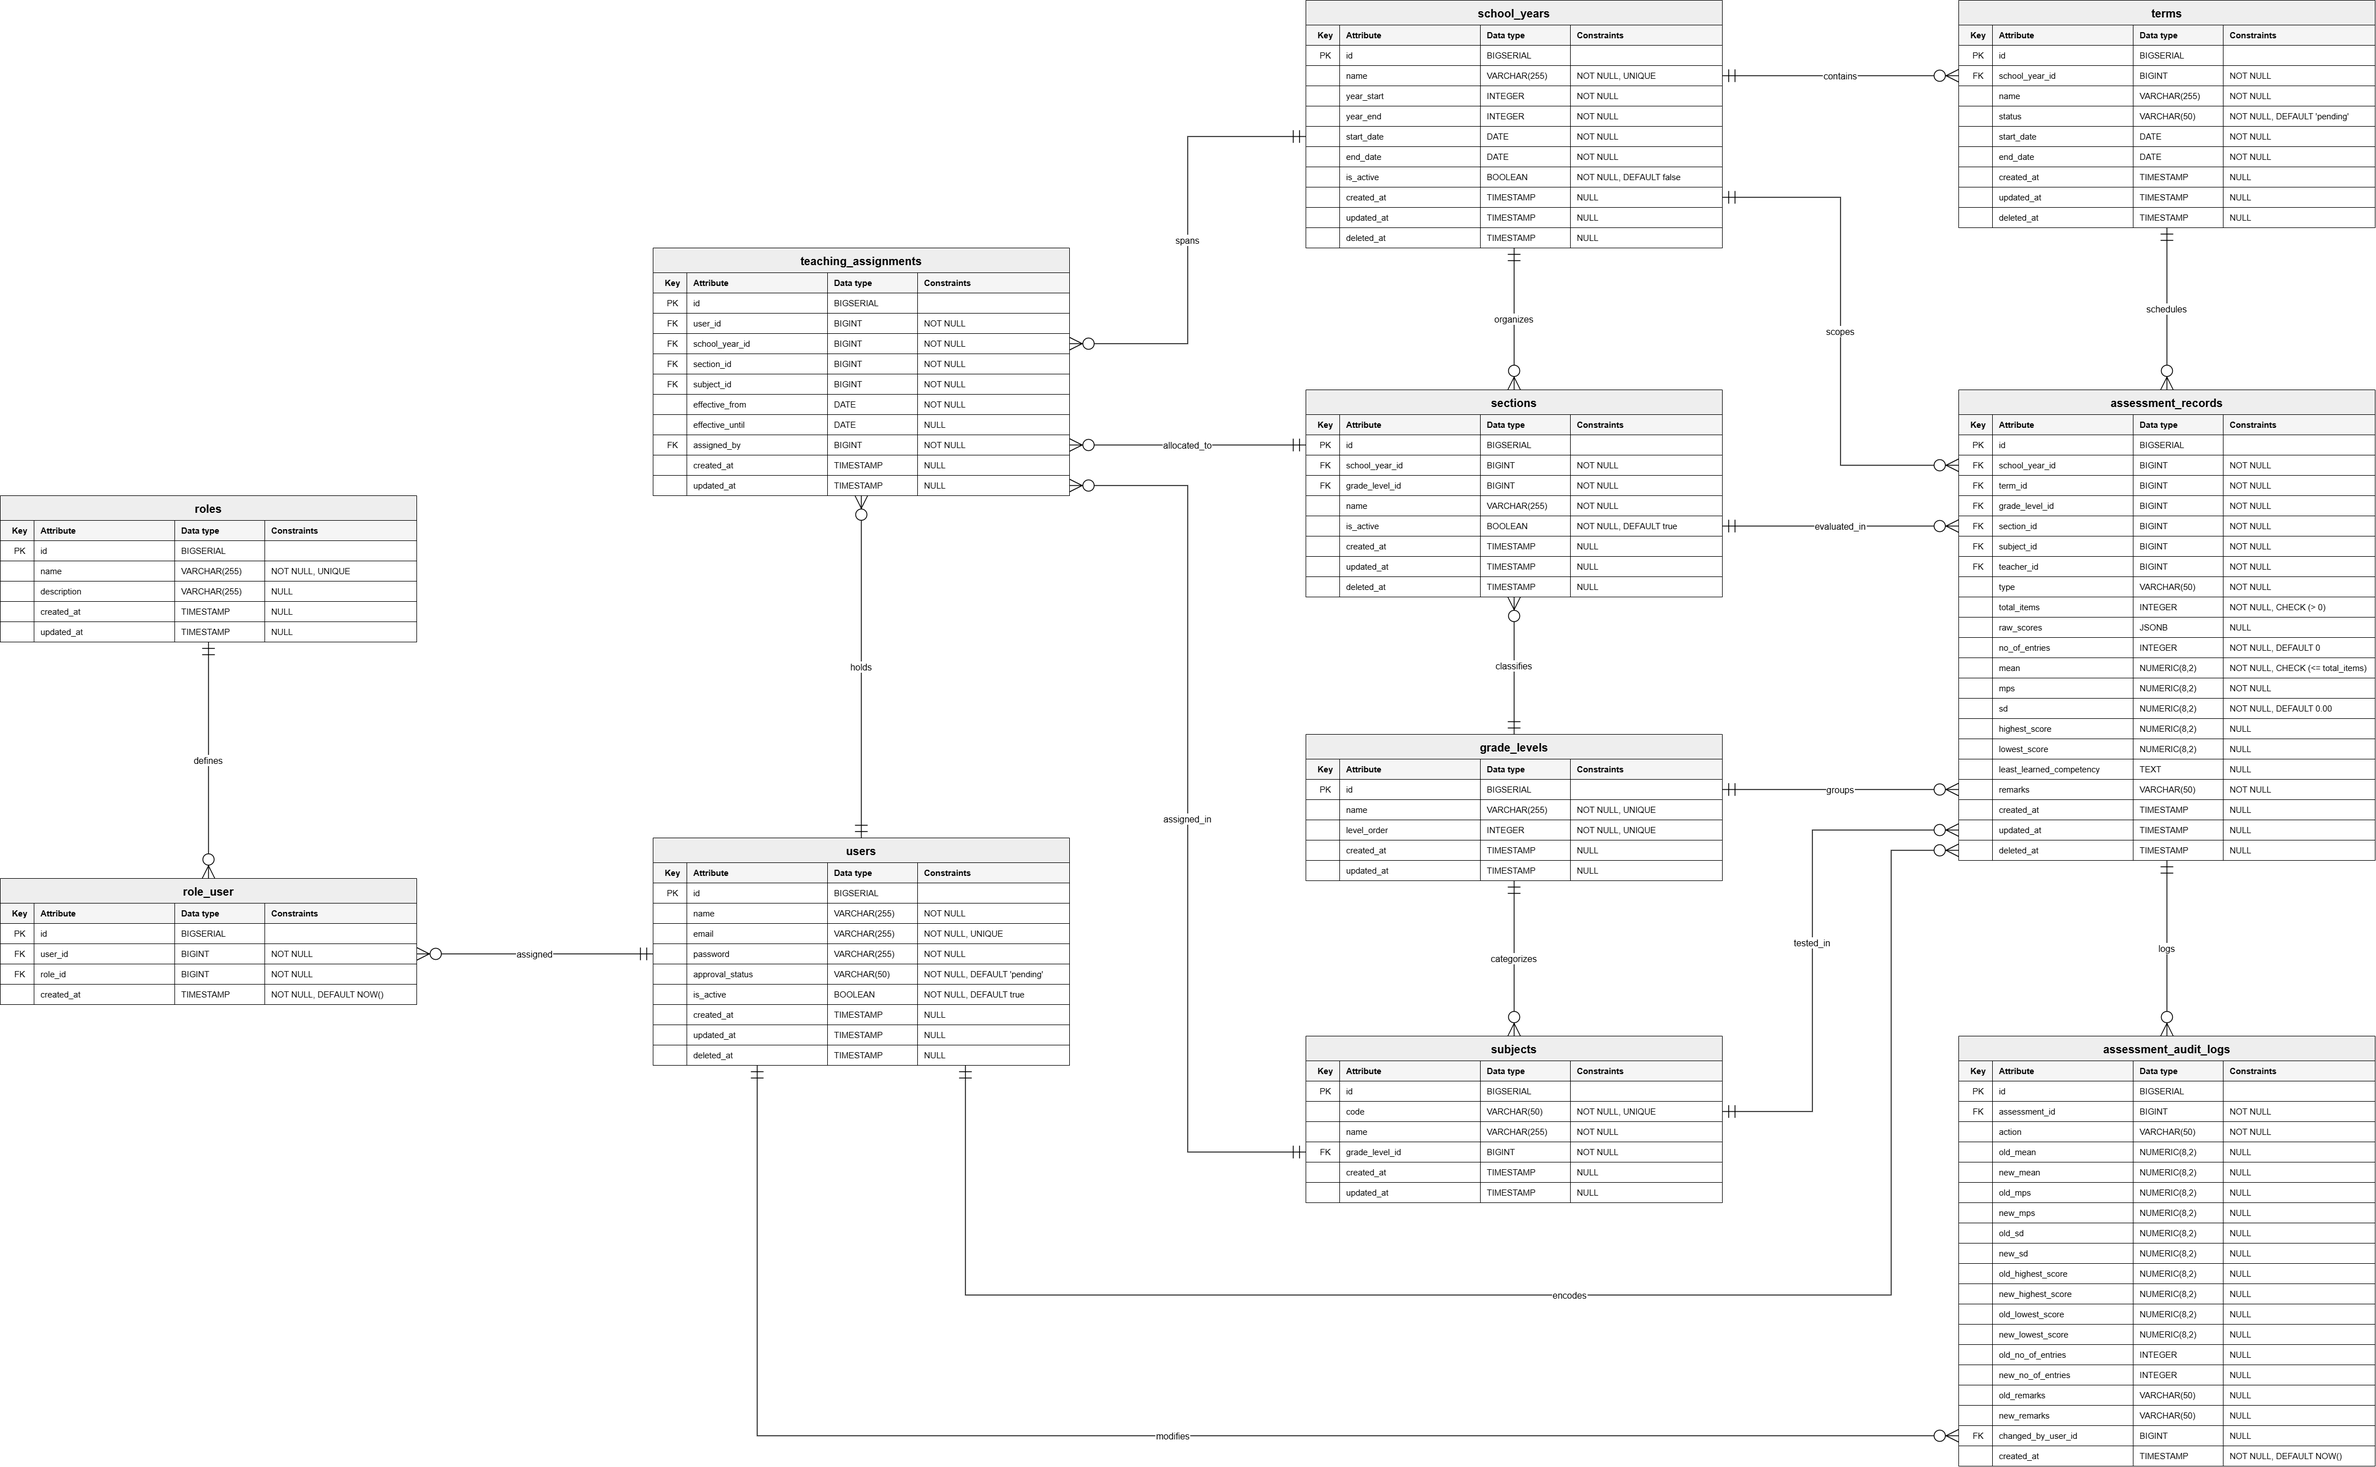
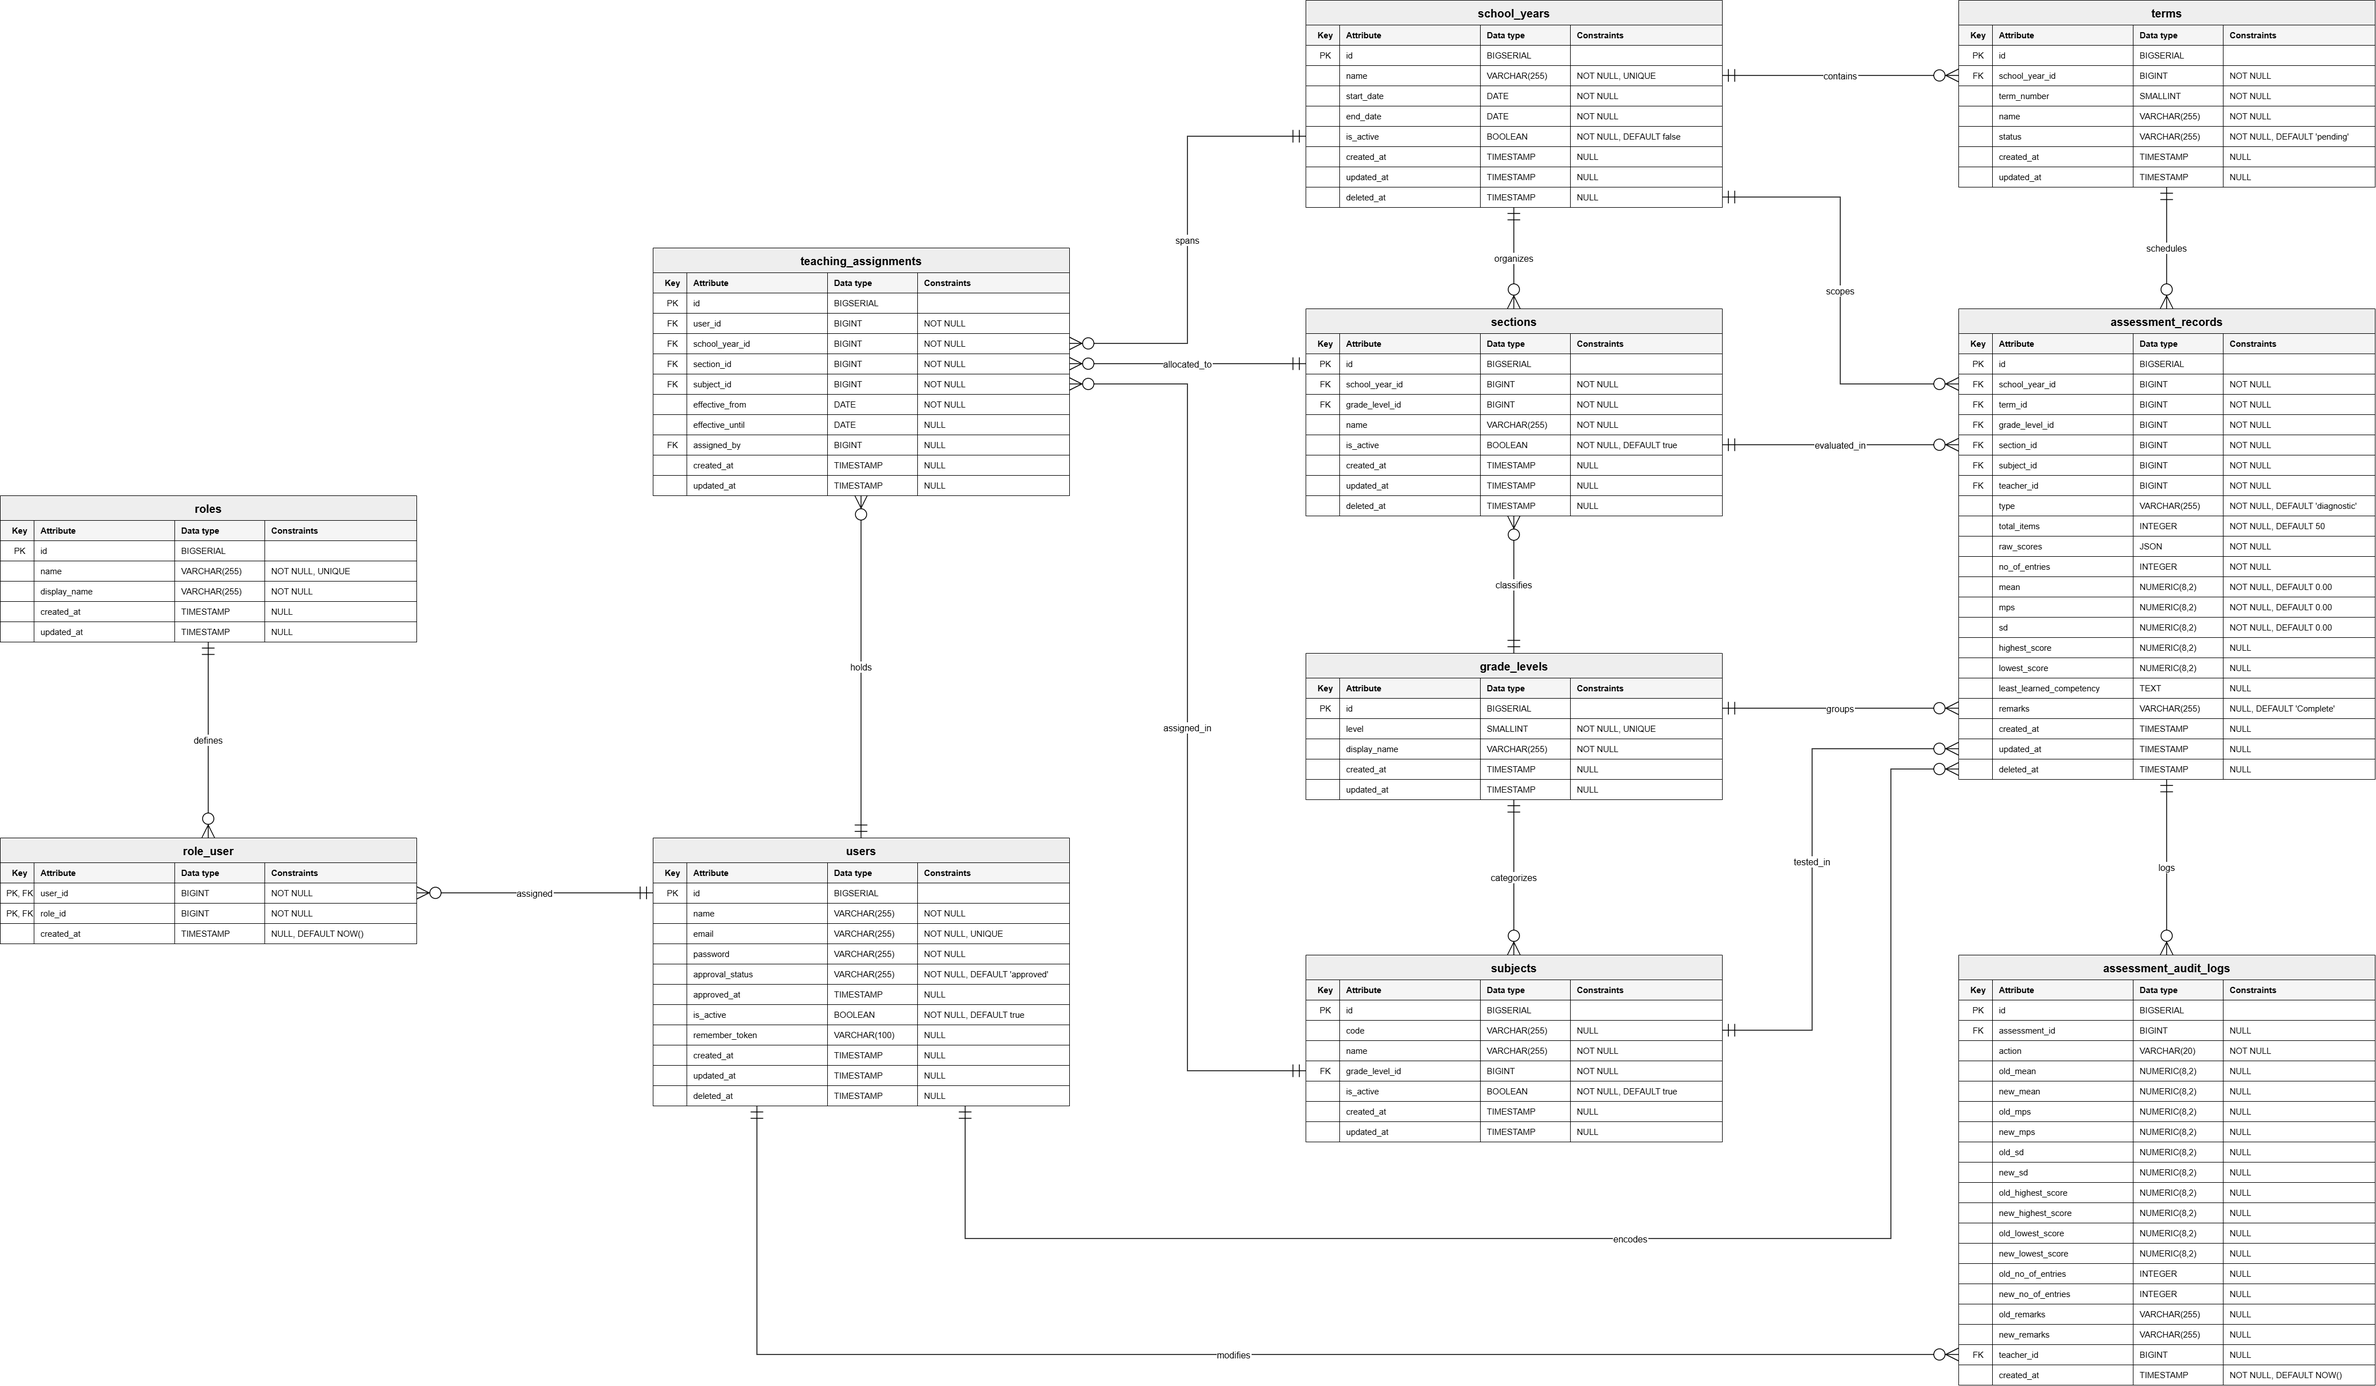
phase 68: update DOCUMENTATION.md challenges, table definitions, and ERD diagrams

diff --git a/DOCUMENTATION.md b/DOCUMENTATION.md
@@ -9,7 +9,7 @@ The DNIHS Assessment Consolidation and Analytics System is a web application bui
 ## Screens
 
 ### Front-End Overview
-The front-end is a Single Page Application (SPA) built with React 19, Vite, Tailwind CSS v4, Lucide React icons, and Motion for page transitions. On desktop screens, the layout uses a collapsible left sidebar, a top header bar showing the logged-in user, and full-width tables for reports and class management. On mobile screens, the sidebar turns into a slide-out menu drawer and tables scroll horizontally so forms and reports remain easy to use on phones.
+The front-end is developed as a Single Page Application (SPA) built with React 19 and bundled using Vite. It utilizes Tailwind CSS v4 for modern utility-first styling, Lucide React for UI iconography, and Motion for component animations and page transitions.
 
 ### Screen Descriptions
 
@@ -73,23 +73,23 @@ The project is structured as a Laravel REST API backend (PHP 8.3) connected to a
 m_capstone/
 ├── app/
 │   ├── Console/Commands/
-│   │   ├── DatabaseBackupCommand.php               # CLI command to back up the PostgreSQL database
-│   │   └── DatabaseRestoreCommand.php              # CLI command to restore and verify database backups
+│   │   ├── DatabaseBackupCommand.php       # Database backup command
+│   │   └── DatabaseRestoreCommand.php      # Database restore verification
 │   ├── Http/
 │   │   ├── Controllers/Api/
-│   │   │   ├── AcademicReferenceController.php     # Returns grade levels, subjects, and active school year
-│   │   │   ├── AssessmentController.php            # Handles score encoding, updates, and consolidated reports
-│   │   │   ├── AuthController.php                  # Handles login, registration, logout, and user session
-│   │   │   ├── SchoolYearController.php            # Creates and updates school years and their 3 terms
-│   │   │   ├── SectionController.php               # Creates, updates, archives, and deletes sections
-│   │   │   ├── TeacherAssignmentController.php     # Assigns and removes teacher subject loads
-│   │   │   ├── TeacherController.php               # Manages teacher account approval and deactivation
-│   │   │   └── TermController.php                  # Updates term status (pending, active, completed)
+│   │   │   ├── AcademicReferenceController.php  # Grade levels & subjects API
+│   │   │   ├── AssessmentController.php    # Score encoding & reports
+│   │   │   ├── AuthController.php          # Auth & user session API
+│   │   │   ├── SchoolYearController.php    # School year & term management
+│   │   │   ├── SectionController.php       # Class section management
+│   │   │   ├── TeacherAssignmentController.php  # Teacher load assignments
+│   │   │   ├── TeacherController.php       # Teacher accounts & approval
+│   │   │   └── TermController.php          # Term status management
 │   │   ├── Middleware/
-│   │   │   └── EnsureUserHasRole.php               # Checks if the logged-in user is system_admin or teacher
-│   │   ├── Requests/                               # FormRequest classes for server-side input validation
-│   │   └── Resources/                              # Formats model data into clean JSON responses
-│   ├── Models/                                     # Eloquent models for the database tables
+│   │   │   └── EnsureUserHasRole.php       # Role access authorization
+│   │   ├── Requests/                       # Form validation classes
+│   │   └── Resources/                      # JSON API resource transformers
+│   ├── Models/                             # Eloquent database models
 │   │   ├── AssessmentRecord.php
 │   │   ├── GradeLevel.php
 │   │   ├── Role.php
@@ -100,22 +100,26 @@ m_capstone/
 │   │   ├── Term.php
 │   │   └── User.php
 │   └── Services/
-│       └── StatsCalculatorService.php              # Computes Mean, SD, MPS, Mastery Level, and Pooled Variance
+│       └── StatsCalculatorService.php      # Mean, SD, MPS calculator
+├── bootstrap/
+│   └── app.php                             # Application bootloader
+├── config/                                 # App & database configuration
 ├── database/
-│   ├── migrations/                                 # Database tables, foreign keys, indexes, and triggers
-│   └── seeders/                                    # Initial roles, admin account, grades, and subjects
+│   └── migrations/                         # PostgreSQL table schemas
+├── public/                                 # Web server entry & assets
 ├── resources/
-│   ├── css/app.css                                 # Tailwind CSS v4 stylesheet
+│   ├── css/
+│   │   └── app.css                         # Tailwind CSS stylesheet
 │   └── js/
-│       ├── api.js                                  # Helper for API requests with Sanctum Bearer tokens
-│       ├── App.jsx                                 # Main React component handling login state and page tabs
-│       ├── main.jsx                                # React entry point
-│       ├── components/                             # Shared UI components (Sidebar, TopBar, ScoreSheet, Modal)
-│       └── pages/                                  # Page views for Login, Admin modules, and Teacher encoding
+│       ├── api.js                          # Axios API client helper
+│       ├── App.jsx                         # Root React SPA component
+│       ├── main.jsx                        # React entry point
+│       ├── components/                     # Reusable UI components
+│       └── pages/                          # React page views & modules
 └── routes/
-    ├── api.php                                     # All backend API endpoints
-    ├── console.php                                 # Scheduled daily backup command
-    └── web.php                                     # Serves the React app
+    ├── api.php                             # REST API endpoints
+    ├── console.php                         # Scheduled CLI commands
+    └── web.php                             # SPA route entry point
 ```
 
 ### Functions Made
@@ -133,18 +137,21 @@ m_capstone/
 
 | Table Name | Purpose |
 | :--- | :--- |
-| `users` | Stores admin and teacher accounts, hashed passwords, active status (`is_active`), approval status (`pending`, `approved`, `rejected`), and soft-delete timestamps. |
-| `roles` | Stores the user roles (`system_admin` and `teacher`). |
+| `users` | Stores administrator and teacher accounts, hashed passwords, active status (`is_active`), approval status (`pending`, `approved`, `rejected`), and timestamps. |
+| `roles` | Defines authorization roles (`system_admin` and `teacher`). |
 | `role_user` | Pivot table that links `users` to their assigned `roles`. |
-| `school_years` | Stores school years (such as `2025-2026`), start and end dates, and which school year is currently active. |
-| `terms` | Stores the 3 terms (`1st Term`, `2nd Term`, `3rd Term`) under each school year and whether encoding is `pending`, `active`, or `completed`. |
-| `grade_levels` | Reference table for `Grade 7`, `Grade 8`, `Grade 9`, and `Grade 10`. |
-| `sections` | Stores class sections (such as `Pilot A` and `Pilot B`) under a specific grade level and school year. |
-| `subjects` | Stores the DepEd subjects per grade level along with their subject codes. |
-| `teaching_assignments` | Links a teacher (`user_id`) to a specific section and subject for a school year, including start and end dates (`effective_from`, `effective_until`). |
-| `assessment_records` | Stores the encoded array of student `raw_scores` (JSONB), `total_items`, computed statistics (`no_of_entries`, `mean`, `mps`, `sd`, `highest_score`, `lowest_score`), `least_learned_competency`, and mastery `remarks`. |
-| `assessment_audit_logs` | Stores a history of old and new statistical values whenever an assessment record is updated or deleted. |
-| `personal_access_tokens` | Stores Laravel Sanctum authentication tokens for logged-in users. |
+| `school_years` | Stores academic school years (such as `2025-2026`), start and end dates, and active school year status (`is_active`). |
+| `terms` | Stores the 3 grading terms (`1st Term`, `2nd Term`, `3rd Term`) per school year and encoding status (`pending`, `active`, `completed`). |
+| `grade_levels` | Reference table for junior high school levels (`Grade 7`, `Grade 8`, `Grade 9`, and `Grade 10`). |
+| `sections` | Stores class sections under a specific grade level and school year. |
+| `subjects` | Stores the DepEd curriculum learning areas per grade level along with their subject codes. |
+| `teaching_assignments` | Links a teacher (`user_id`) to a specific section and subject for a school year, including tenure dates (`effective_from`, `effective_until`). |
+| `assessment_records` | Stores examination records with raw score arrays (`raw_scores` JSON), total items, computed statistics (`no_of_entries`, `mean`, `mps`, `sd`, highest/lowest score), least learned competencies, and DepEd mastery remarks. |
+| `assessment_audit_logs` | Audit trail logging previous and updated statistical values whenever an assessment record is modified or deleted. |
+| `personal_access_tokens` | Stores hashed Laravel Sanctum Bearer tokens for authenticated API sessions. |
+| `password_reset_tokens` | Stores temporary security tokens for user password reset requests. |
+| `sessions` | Stores web user session state, IP addresses, user agents, and last activity timestamps. |
+| `failed_jobs` | Logs details of any background queued jobs that failed execution. |
 
 ---
 
@@ -156,16 +163,18 @@ m_capstone/
 
 ## Challenges and Solutions
 
-### 1. Computing Consolidated Standard Deviation Across Multiple Sections
-- **Problem**: In the old spreadsheet setup, the overall standard deviation for a grade level was computed by simply averaging the standard deviations of each section. During development, we found that this gives an inaccurate result when sections have different numbers of students or different class means.
-- **Solution**: We updated `StatsCalculatorService::consolidate()` to use the pooled population variance formula:
-  $$\sigma^2_{\text{pooled}} = \frac{1}{N} \sum_{i=1}^{k} n_i \left( \sigma_i^2 + (\mu_i - \bar{\mu})^2 \right), \quad \sigma_{\text{pooled}} = \sqrt{\sigma^2_{\text{pooled}}}$$
-  This properly weights each section by its student count and accounts for differences between section means.
+### 1.
+- **Problem**: Each section has a different number of students (e.g., 35 in one section, 48 in another). Creating a separate database row for every single student's score made database queries slow and bloated the database with thousands of rows.
+- **Solution**: We stored the list of raw student scores in a native PostgreSQL `JSON` column inside `assessment_records` and used Laravel Eloquent's array casting (`$casts = ['raw_scores' => 'array']`), allowing the backend to save and retrieve scores directly as a standard PHP array.
 
-### 2. Reassigning Classes to Substitute Teachers Mid-Year
-- **Problem**: Putting a normal unique constraint on `(school_year_id, section_id, subject_id)` in the `teaching_assignments` table prevented us from assigning a substitute teacher if the original teacher went on leave, unless we deleted the original teacher's assignment record.
-- **Solution**: We used a PostgreSQL partial unique index (`WHERE effective_until IS NULL`). When a teacher leaves a class, we set their `effective_until` date instead of deleting the row. This allows a new teacher to be assigned to the same class while keeping the previous teacher's history intact.
+### 2.
+- **Problem**: Relying only on browser validation was risky because modified or corrupted requests could submit scores that were negative, non-numeric, or higher than the test's total number of items.
+- **Solution**: We created a dedicated Laravel `StoreAssessmentRequest` validation class that verifies every item in the submitted array (`raw_scores.* => 'required|numeric|min:0|lte:total_items'`) before allowing the data to reach the database.
 
-### 3. Preventing Invalid Scores and Formula Errors
-- **Problem**: In shared spreadsheets, teachers could accidentally type a score higher than the total number of test items or overwrite the cells containing the Mean, SD, and MPS formulas.
-- **Solution**: We moved all calculations to the backend and database. The React score sheet blocks scores below `0` or above `total_items`, Laravel's `StoreAssessmentRequest` validates the submitted array on the server, and `StatsCalculatorService` along with a PostgreSQL trigger computes the Mean, SD, MPS, and Mastery Level automatically upon saving.
+### 3.
+- **Problem**: If a teacher submitted scores for the same section, subject, and term more than once, the database could create duplicate records, which corrupted the school-wide consolidated report totals.
+- **Solution**: We created a composite unique index in PostgreSQL covering `(school_year_id, term_id, section_id, subject_id, type)` and programmed the controller to check for existing entries so it updates the current record instead of inserting a duplicate.
+
+### 4.
+- **Problem**: Writing statistical formulas (Mean, MPS, Standard Deviation, and Mastery Level) directly inside multiple controllers created duplicated code and risked slight differences in how numbers were calculated across reports.
+- **Solution**: We isolated all statistical logic into a standalone `StatsCalculatorService` class, ensuring that single-class submissions and consolidated multi-section reports use the exact same calculation methods.
